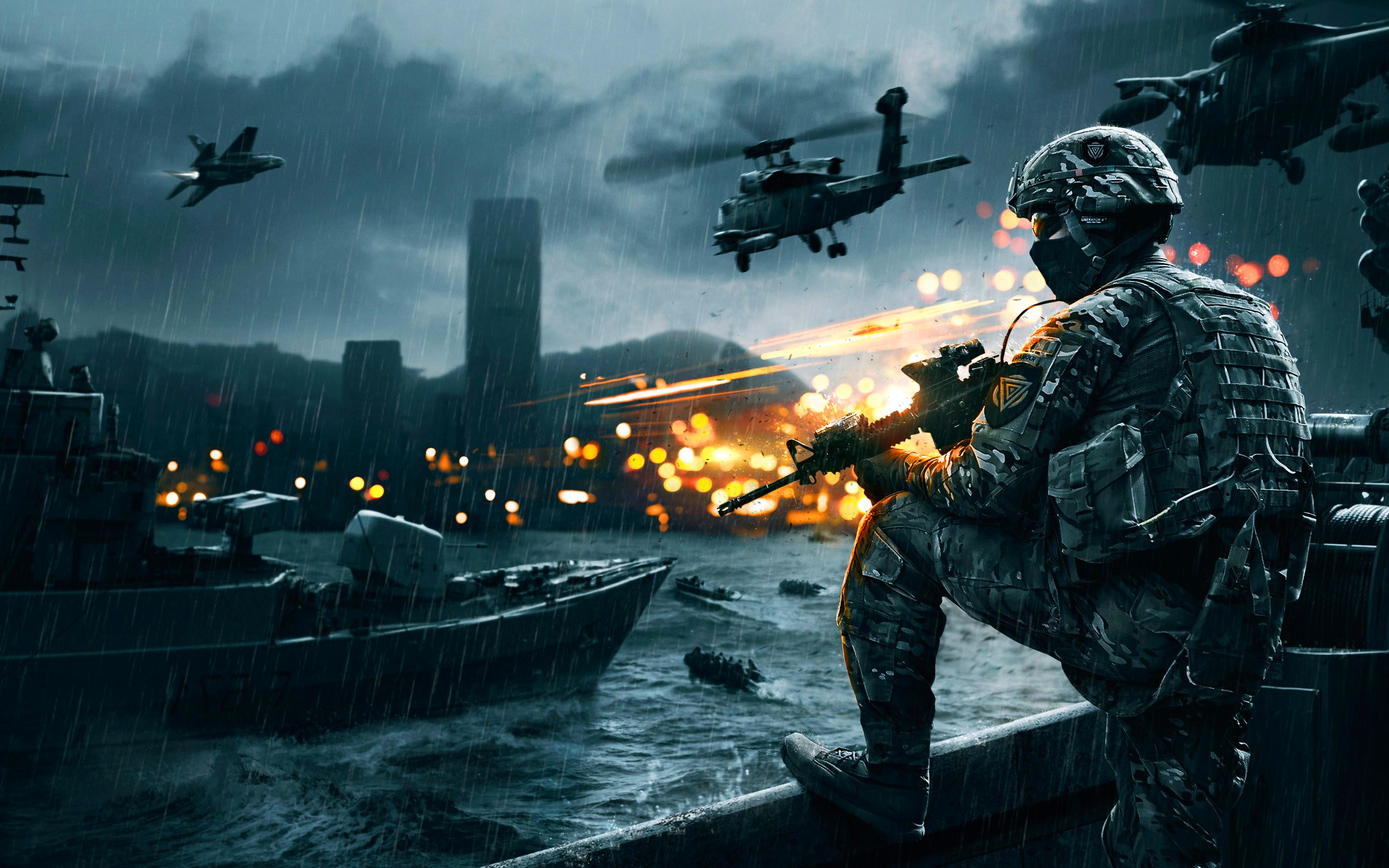
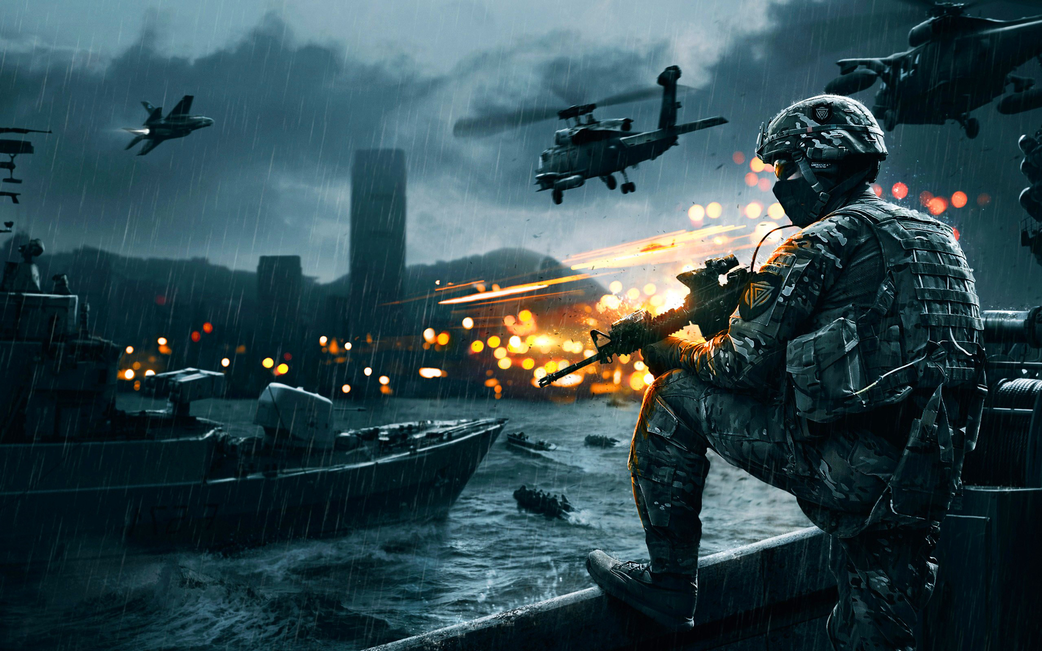
Resized images to 1080p where needed
any larger was causing the slideshow to stutter. 1080p has been fine so
far.

diff --git a/assets/javascript/page.js b/assets/javascript/page.js
@@ -69,7 +69,8 @@ $(window).on("load aj_done", function(){
 			start: function(){
 				$(".img-border").css({
 					"height": "41vw"
-				})
+				});
+				$(window).trigger("resize");
 			}
 		}
 	})

diff --git a/assets/javascript/slide.js b/assets/javascript/slide.js
@@ -117,8 +117,6 @@
 				i++;
 			}
 
-
-
 			$container.replaceWith( dummy );
 			// Container done, now adjust stuff!
 			lastID++;

diff --git a/gtav.php b/gtav.php
@@ -37,7 +37,10 @@
 						require_once("assets/_module/start.php");
 					?>
 					<div class="image-wrapper wide">
-						<img src="assets/image/cs1.jpg" class="center-image" alt="Picture of counter strike: global offensive" data-slideshow-src="assets/image/cs.png|assets/image/cs1.jpg|assets/image/gmod.jpg|assets/image/hag.jpg"><br>
+						<div class="img-border">
+							<img id="test1" src="assets/image/gta.jpg" class="center-image" alt="Picture of counter strike: global offensive" data-slideshow-src="assets/image/gta1.jpg|assets/image/slideshow/gta1.jpg|assets/image/slideshow/gta2.jpg|assets/image/slideshow/gta3.jpg|assets/image/slideshow/gta4.jpg">
+						</div><br>
+						<small>Royalty Free image of CS:GO sourced from CS:GO official steam page</small>
 					</div>
 					<div class="header">
 						<h1 class="large" id="title">Grand Theft Auto V</h1>
